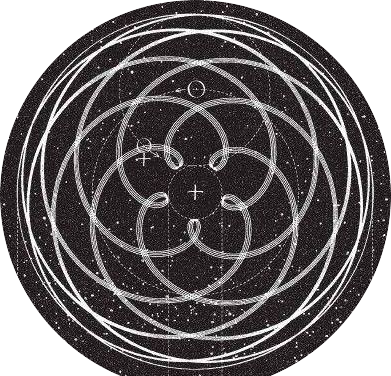
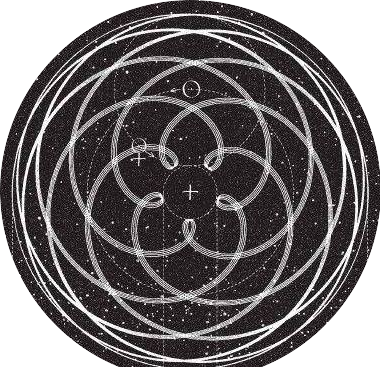
Fine-tune crop and reduce size (520x416)

diff --git a/src/casaselva/Vision.svelte b/src/casaselva/Vision.svelte
@@ -38,8 +38,8 @@
     top: 30%;
     left: 50%;
     transform: translate(-50%, -50%);
-    width: 580px;
-    height: 464px;
+    width: 520px;
+    height: 416px;
     background-image: url('/images/casaselva/sacred-geometry.png');
     background-size: contain;
     background-repeat: no-repeat;
